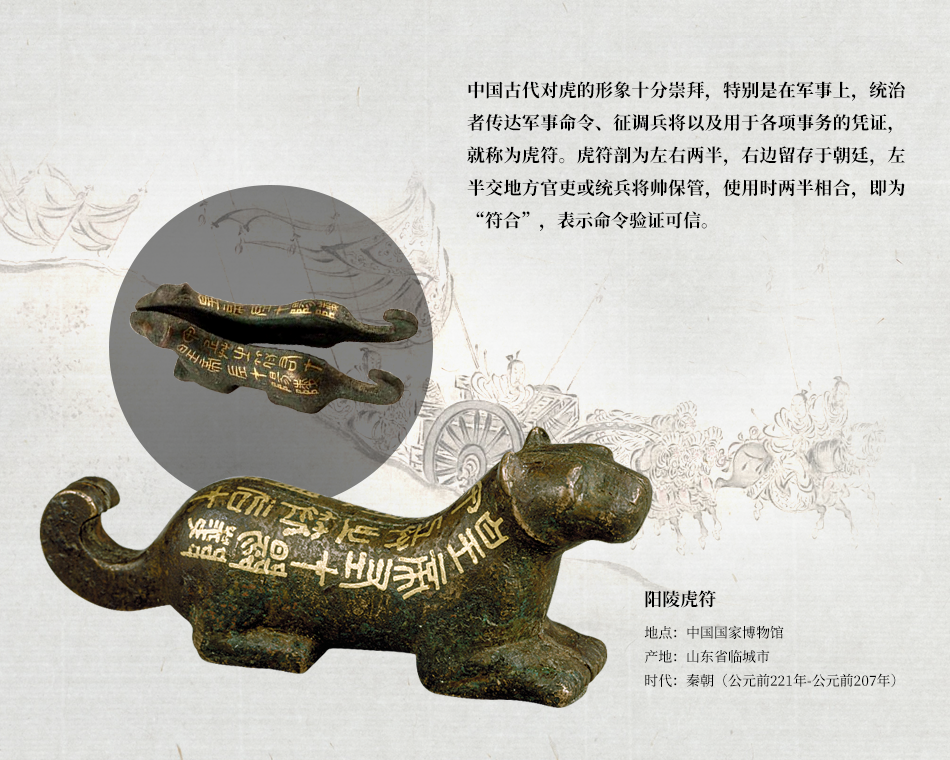
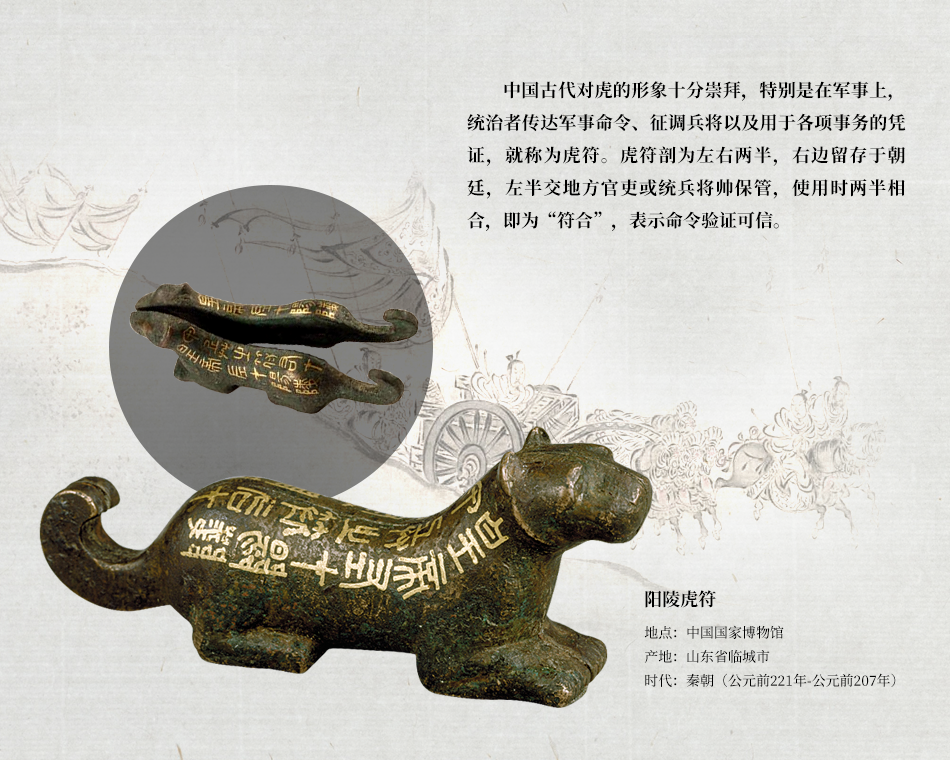
修复中文缩进问题

Changed region(s): [[0.4884, 0.0908, 0.9463, 0.3026]]

diff --git a/src/app/animal/keypoint/keypoint.component.ts b/src/app/animal/keypoint/keypoint.component.ts
@@ -1,5 +1,6 @@
 import { Component, OnInit, Input, ElementRef, ViewChild } from '@angular/core';
 import { AnimationController } from '@ionic/angular';
+import { AnimalsDataService } from 'src/app/animals-data.service';
 
 @Component({
   selector: 'animal-keypoint',
@@ -12,8 +13,10 @@ export class KeypointComponent implements OnInit {
   index: number = -1;
 
   @ViewChild("featherAnimal", { static: false }) feather_animal: ElementRef;
-  @ViewChild("featherInfo", { static: false }) feather_info: ElementRef
-  constructor(private animationCtrl: AnimationController) { }
+  @ViewChild("featherInfo", { static: false }) feather_info: ElementRef;
+  constructor(private animationCtrl: AnimationController, 
+    public animalsDataService: AnimalsDataService) {
+  }
 
   ngOnInit() { }
   async onShow(i: number) {
@@ -43,7 +46,7 @@ export class KeypointComponent implements OnInit {
       .addElement(this.feather_info.nativeElement)
       .duration(800)
       .iterations(1)
-      .fromTo('transform','translate(-50%,-50%)', 'translate(-120%,-50%)' )
+      .fromTo('transform', 'translate(-50%,-50%)', 'translate(-120%,-50%)')
       .fromTo('opacity', '0', '1')
       .easing("ease-out");
     await a.play()

diff --git a/src/app/animal/game/game2/game2.component.ts b/src/app/animal/game/game2/game2.component.ts
@@ -207,14 +207,14 @@ export class Game2Component implements AfterViewInit, GameComponent {
   //完成一个拼图
   async showRight(puzzleCatalogIndex: number) {
     //虎符闪烁
-    let a: Animation = this.animationCtrl.create()
-      .addElement(document.querySelector(".question"))
-      .duration(500)
-      .easing('ease-out')
-      .iterations(2)
-      .fromTo('opacity', "0", "1")
-      .onFinish(() => {
-      });
+    // let a: Animation = this.animationCtrl.create()
+    //   .addElement(document.querySelector(".question"))
+    //   .duration(500)
+    //   .easing('ease-out')
+    //   .iterations(2)
+    //   .fromTo('opacity', "0", "1")
+    //   .onFinish(() => {
+    //   });
     let b: Animation = this.animationCtrl.create()
       .addElement(document.querySelector(".question"))
       .duration(500)
@@ -224,7 +224,7 @@ export class Game2Component implements AfterViewInit, GameComponent {
       .fromTo('transform', "translate(0, 0) scale(1)", "translate(-480px, 450px) scale(0.3)")
       .onFinish(() => {
       });
-    await a.play();
+    // await a.play();
     await b.play();
 
     // console.info("援军出城：", puzzleCatalogIndex);

diff --git a/src/app/animal/timeline/timeline.component.ts b/src/app/animal/timeline/timeline.component.ts
@@ -1,6 +1,7 @@
 import { Component, OnInit, Input } from '@angular/core';
 import { ModalController } from '@ionic/angular';
-import { PhotoComponent,Photo } from '../photo/photo.component';
+import { PhotoComponent, Photo } from '../photo/photo.component';
+import { AnimalsDataService } from 'src/app/animals-data.service';
 
 @Component({
   selector: 'animal-timeline',
@@ -10,12 +11,14 @@ import { PhotoComponent,Photo } from '../photo/photo.component';
 export class TimelineComponent implements OnInit {
   //数据
   @Input() data: TimelineData;
-  
-  constructor(private modalController:ModalController) { }
+  constructor(private modalController: ModalController,
+    public animalsDataService: AnimalsDataService
+  ) {
+  }
 
   ngOnInit() { }
   //显示照片
-  async showPhoto(photo:any) {
+  async showPhoto(photo: any) {
     //console.info(photo)
     const modal = await this.modalController.create({
       component: PhotoComponent,

diff --git a/src/app/animal/album/album.component.ts b/src/app/animal/album/album.component.ts
@@ -2,6 +2,7 @@ import { Component, OnInit, Input } from '@angular/core';
 import { ModalController } from '@ionic/angular';
 import { PhotoComponent ,Photo} from '../photo/photo.component';
 import { VideoComponent ,Video} from '../video/video.component';
+import { AnimalsDataService } from 'src/app/animals-data.service';
 @Component({
   selector: 'animal-album',
   templateUrl: './album.component.html',
@@ -11,8 +12,10 @@ export class AlbumComponent implements OnInit {
   //数据
   @Input() data:AlbumData;
   
-  constructor(private modalController:ModalController) { }
-
+  constructor(private modalController: ModalController,
+    public animalsDataService: AnimalsDataService
+  ) {
+  }
   ngOnInit() { }
   //显示照片
   async showPhoto(photo:any) {

diff --git a/src/app/animal/album/album.component.html b/src/app/animal/album/album.component.html
@@ -4,7 +4,7 @@
       <ion-text class="animal-name"  [innerHTML]="data.name"></ion-text>
       <ion-text class="animal-aliasName"  [innerHTML]="data.aliasName"></ion-text>
       <ion-text class="animal-scientificName"  [innerHTML]="data.scientificName"></ion-text>
-      <ion-text class="animal-intro"  [innerHTML]="data.intro"></ion-text>
+      <ion-text class="animal-intro"  [ngClass]="{'text-cn': animalsDataService.language == 'cn'}" [innerHTML]="data.intro"></ion-text>
     </div>
     <div class="media-container">
       <div *ngIf="data" class="album-container">

diff --git a/src/app/download/download.component.html b/src/app/download/download.component.html
@@ -5,11 +5,11 @@
       <ion-text class="download-text" [innerHTML]="item.name"></ion-text>
       <ion-button class="image-button" expand="full" fill="clear" [href]="[item.downloadFileURL]">
         <img
-          *ngIf="lang == 'cn'"
+          *ngIf="animalsDataService.language == 'cn'"
           src="assets/images/button/download_cn.png"
         />
         <img
-          *ngIf="lang == 'en'"
+          *ngIf="animalsDataService.language == 'en'"
           src="assets/images/button/download_en.png"
         />
       </ion-button>

diff --git a/src/app/animal/keypoint/keypoint.component.html b/src/app/animal/keypoint/keypoint.component.html
@@ -3,7 +3,7 @@
   <div #featherInfo hidden class="feather-container">
     <img *ngIf="index>=0" class="feather-image" [src]="data.feathers[index].imageURL" />
     <h1 *ngIf="index>=0" class="feather-title">{{ data.feathers[index].title }}</h1>
-    <p *ngIf="index>=0" class="feather-text">{{ data.feathers[index].text }}</p>
+    <p *ngIf="index>=0" class="feather-text" [ngClass]="{'text-cn': animalsDataService.language == 'cn'}">{{ data.feathers[index].text }}</p>
   </div>
 
   <div #featherAnimal *ngIf="data" class="point-container">

diff --git a/src/app/download/download.component.ts b/src/app/download/download.component.ts
@@ -11,12 +11,10 @@ import { Router } from '@angular/router';
 export class DownloadComponent implements OnInit {
   @Input() copyrightText: string;
   @Input() data: DownloadItem;
-  lang:string;
   constructor(
     private router: Router,
     private modalCtrl: ModalController,
-    private animalsDataService: AnimalsDataService) {
-      this.lang = this.animalsDataService.language;
+    public animalsDataService: AnimalsDataService) {
   }
   onClose() {
     this.modalCtrl.dismiss({

diff --git a/src/app/animal/map/map.component.ts b/src/app/animal/map/map.component.ts
@@ -31,7 +31,8 @@ export class MapComponent implements AfterViewInit {
   m: L.Map;//地图实例
   @ViewChild("mapSlides", { static: false }) mapSlides: IonSlides;
   @ViewChild("map", { static: true }) map: ElementRef;
-  constructor(private animalsDataService: AnimalsDataService) { }
+  constructor(public animalsDataService: AnimalsDataService) { 
+  }
 
   ngAfterViewInit() {
     let that = this;

diff --git a/src/app/animal/map/map.component.html b/src/app/animal/map/map.component.html
@@ -1,5 +1,5 @@
 <div class="container">
-  <ion-text *ngIf="data" class="map-text" [innerHTML]="data.text"></ion-text>
+  <ion-text *ngIf="data" class="map-text" [ngClass]="{'text-cn': animalsDataService.language == 'cn'}" [innerHTML]="data.text"></ion-text>
   <div class="map-panel">
     <ion-slides #mapSlides [options]="slideOpts">
       <ion-slide>

diff --git a/src/app/animal/timeline/timeline.component.html b/src/app/animal/timeline/timeline.component.html
@@ -6,7 +6,7 @@
   </div>
   <div *ngIf="data" class="timeline-container">
     <div>
-      <ion-text class="text" [innerHTML]="data.text">
+      <ion-text class="text" [ngClass]="{'text-cn': animalsDataService.language == 'cn'}" [innerHTML]="data.text">
       </ion-text>
     </div>
   </div>

diff --git a/src/app/common.scss b/src/app/common.scss
@@ -25,3 +25,8 @@ ion-button{
 .image-button:active {
   transform: scale(1) translateY(1px);
 }
+
+.text-cn{
+  // @extend text;
+  text-indent: 36px;
+}
